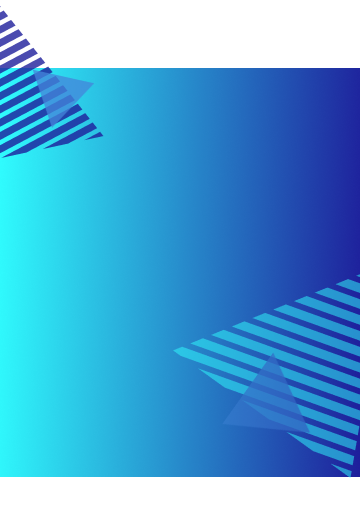
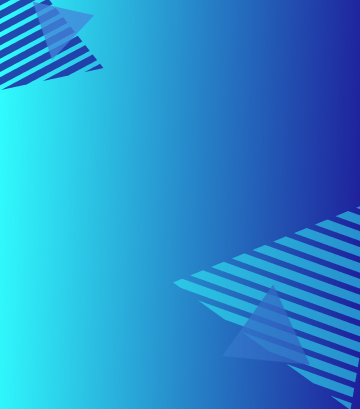
cta

diff --git a/assets/css/main.css b/assets/css/main.css
@@ -137,7 +137,9 @@ body {
 @media screen and (min-width: 768px) {
   .page__header h1 {
     margin-left: 0;
-    width: fit-content;
+  }
+  .page__header h1 a img {
+    max-width: 140px;
   }
 }
 .page__header .is--desktop {
@@ -247,21 +249,44 @@ body {
   align-items: center;
   justify-content: center;
   background-image: linear-gradient(90deg, #30ffff, #4030ff);
-  font: 700 32px 'Exo 2', sans-serif;
+  font: 700 28px 'Exo 2', sans-serif;
   text-transform: uppercase;
   color: #080809;
   padding: 22px 52px;
   border-radius: 20px;
   width: fit-content;
+  transition: all linear 0.15s;
 }
 .btn__cyanblue i {
-  font-size: 45px;
-  margin-right: 30px;
+  font-size: 40px;
+  margin-right: 20px;
 }
 .btn__cyanblue:hover {
   background-image: linear-gradient(270deg, #30ffff, #4030ff);
   color: #f5f5f5;
   cursor: pointer;
+}
+.btn__black {
+  display: flex;
+  align-items: center;
+  justify-content: center;
+  background-color: #080809;
+  border-radius: 20px;
+  width: fit-content;
+  height: fit-content;
+  text-transform: uppercase;
+  font: 700 28px 'Exo 2', sans-serif;
+  color: #F5F5F5;
+  padding: 22px 42px;
+  transition: all linear 0.15s;
+}
+.btn__black img {
+  width: fit-content;
+  margin-right: 20px;
+}
+.btn__black:hover {
+  background-color: #1E1E9B;
+  color: white;
 }
 .page__footer {
   background-color: #f7f7f6;
@@ -797,5 +822,37 @@ body {
   }
   .page__about .title {
     margin-bottom: 60px;
+  }
+}
+.page__cta {
+  padding-top: 70px;
+  padding-bottom: 70px;
+  background-image: url('../img/bg-cta-mobile.png');
+  background-repeat: no-repeat;
+  background-size: cover;
+}
+.page__cta .content {
+  align-items: center;
+}
+.page__cta .content .text {
+  font: 700 42px 'Exo 2', sans-serif;
+  color: #080809;
+  margin-bottom: 30px;
+  text-align: center;
+}
+.page__cta .content .button {
+  display: flex;
+  justify-content: center;
+}
+@media screen and (min-width: 768px) {
+  .page__cta {
+    background-image: url('../img/bg-cta.png');
+  }
+  .page__cta .content .text {
+    margin-bottom: 0;
+    text-align: left;
+  }
+  .page__cta .content .button {
+    justify-content: flex-end;
   }
 }

diff --git a/assets/css/less/components/buttons.less b/assets/css/less/components/buttons.less
@@ -2,25 +2,22 @@
 
 @import "../base/_pallete.less";
 
-// out: false
-
-@import "../base/_pallete.less";
-
 .btn__cyanblue {
     display: flex;
     align-items: center;
     justify-content: center;
     background-image: linear-gradient(90deg, rgb(48, 255, 255), rgb(64, 48, 255));
-    font: 700 32px @fontE;
+    font: 700 28px @fontE;
     text-transform: uppercase;
     color: #080809;
     padding: 22px 52px;
     border-radius: 20px;
     width: fit-content;
+    transition: all linear .15s;
 
     i {
-        font-size: 45px;
-        margin-right: 30px;
+        font-size: 40px;
+        margin-right: 20px;
     }
         
     &:hover {
@@ -28,4 +25,31 @@
         color: #f5f5f5;
         cursor: pointer; 
     }
+}
+
+.btn__black {
+    display: flex;
+    align-items: center;
+    justify-content: center;
+    background-color: #080809;
+    border-radius: 20px;
+    width: fit-content;
+    height: fit-content;
+    text-transform: uppercase;
+    font: 700 28px @fontE;
+    color: #F5F5F5;
+    padding: 22px 42px;
+    transition: all linear .15s;
+
+    img {
+        width: fit-content;
+        margin-right: 20px;
+    }
+
+    &:hover {
+        background-color: #1E1E9B;
+        color: white;
+    }
+
+
 }

diff --git a/index.html b/index.html
@@ -39,9 +39,11 @@
             <div class="row">
 
                 <div class="col col-md-6">
-                    <a href="index.html">
-                        <h1><img src="assets/img/logo.svg" class="logo__header"></h1>
-                    </a>
+                    <h1>
+                        <a href="index.html">
+                            <img src="assets/img/logo.svg" class="logo__header">
+                        </a>
+                    </h1>
                 </div>
 
                 <div class="col-md-5 is--desktop">
@@ -325,7 +327,22 @@
         </div>
     </section>
 
-    
+    <section class="page__cta">
+        <div class="container">
+            <div class="row content">
+                <div class="col-md-7 text">
+                    Precisando de ajuda para criar o visual da sua marca?
+                </div>
+                <div class="col-md-5 button">
+                    <a href="#" class="btn__black">
+                        <img src="assets/img/icon-whats.svg" alt="Whatsapp" class="icon__whats">
+                        Fale Conosco
+                    </a>
+                </div>
+            </div>
+           
+        </div>
+    </section>
 
     
 

diff --git a/assets/css/less/pages/index.less b/assets/css/less/pages/index.less
@@ -219,3 +219,42 @@
         }
     }
 }
+
+.page__cta {
+    padding-top: 70px;
+    padding-bottom: 70px;
+    background-image: url('../img/bg-cta-mobile.png');
+    background-repeat: no-repeat;
+    background-size: cover;
+
+    .content {
+        align-items: center;
+        
+        .text {
+            font: 700 42px @fontE;
+            color: #080809;
+            margin-bottom: 30px;
+            text-align: center;
+        }
+
+        .button {
+            display: flex;
+            justify-content: center;
+        }
+    }
+
+    @media screen and (min-width: 768px) {
+        background-image: url('../img/bg-cta.png');
+
+        .content {
+            .text {
+                margin-bottom: 0;
+                text-align: left;
+            }
+
+            .button {
+                justify-content: flex-end;
+            }
+        }
+    }
+}

diff --git a/assets/css/main.less b/assets/css/main.less
@@ -12,4 +12,4 @@
 @import "less/components/carousel.less";                                                             
 
 // * Webpages
-@import "less/pages/index.less";                                                                                                                                                
+@import "less/pages/index.less";                                                                                                                                                        

diff --git a/assets/css/less/components/header.less b/assets/css/less/components/header.less
@@ -13,7 +13,12 @@
         
         @media screen and (min-width: 768px) {
             margin-left: 0;
-            width: fit-content;
+            
+            a {
+                img {
+                    max-width: 140px;
+                }
+            }
         }
     }
 
